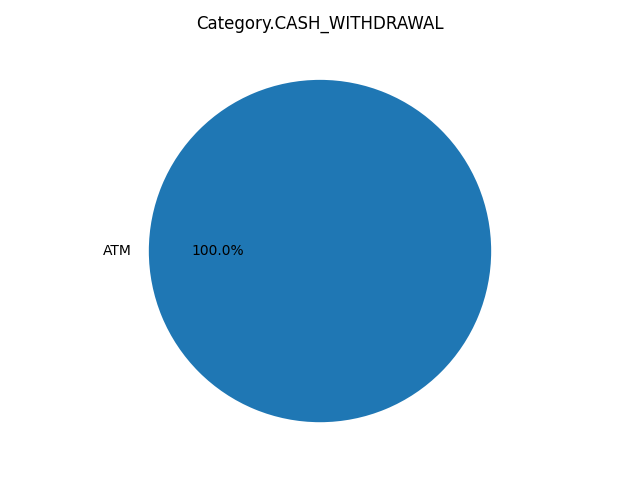
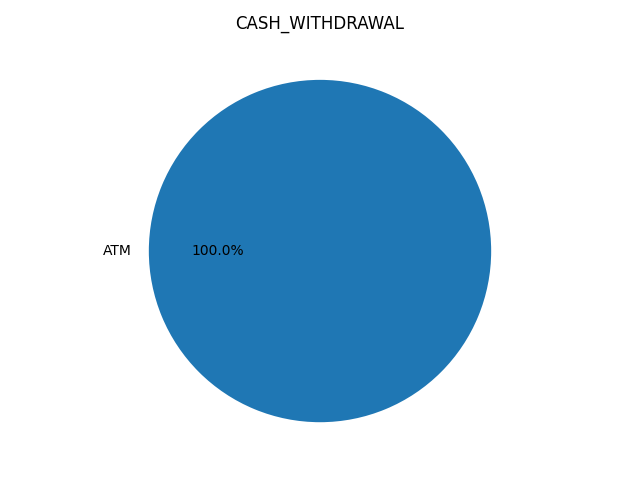
progress

Changed region(s): [[0.3125, 0.0312, 0.6875, 0.0625]]

diff --git a/generate_charts.py b/generate_charts.py
@@ -106,14 +106,15 @@ def subcategories_chart(cat_subcat):
     plt.clf()
     print(cat_subcat)
     for category, subdata in cat_subcat.items():
+        title = category.name
         labels = list(subdata.keys())
         values = [abs(v) for v in subdata.values()]
         plt.figure()
         plt.pie(values, labels=labels, autopct="%1.1f%%")
-        plt.title(category)
+        plt.title(title)
 
         # Save chart
         plt.tight_layout()
-        plt.savefig(f"{category.name}_pie.png")
+        plt.savefig(f"{title}_pie.png")
         plt.close() 
 
